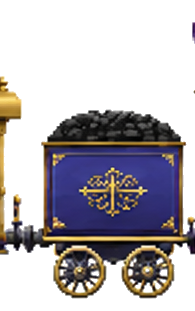
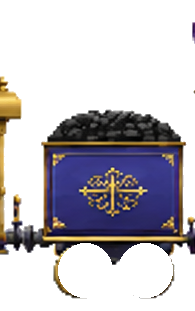
Add files via upload

Changed region(s): [[0.6154, 0.7814, 0.8923, 0.9839], [0.2769, 0.7814, 0.5846, 0.955]]

diff --git a/train/train.html b/train/train.html
@@ -174,6 +174,7 @@
 
     .unit img.body{
       position:absolute;
+      z-index:3;
       left:0;
       bottom:0;
       width:100%;
@@ -191,10 +192,10 @@
     .coal{width:calc(var(--train-h) * 195 / 311)}
     .loco{width:calc(var(--train-h) * 485 / 311)}
 
-    /* العجلات مرسومة CSS وليست صورًا، حتى تدور بشكل دائري صحيح ومكانها مضبوط فوق عجلات الصورة. */
+    /* train-5: العجلات الثابتة أزيلت من صور القطار، وهذه العجلات المتحركة تركب فوق مواقعها الأصلية بدقة. */
     .wheel{
       position:absolute;
-      z-index:8;
+      z-index:2;
       aspect-ratio:1/1;
       border-radius:50%;
       pointer-events:none;
@@ -210,21 +211,20 @@
 
     @keyframes wheelSpin{to{transform:rotate(360deg)}}
 
-    /* train-4: ضبط دقيق لمراكز العجلات فوق عجلات الصور الأصلية.
-       القياسات مبنية كنسب من عرض كل عربة حتى تبقى ثابتة مع تغيير الحجم. */
-    .car .wheel{width:12.4%;bottom:5.35%}
-    .car .w1{left:9.95%}.car .w2{left:27.65%}.car .w3{left:62.25%}.car .w4{left:79.20%}
+    /* train-5: المواضع محسوبة من الصورة الأصلية بعد إزالة العجلات الثابتة. */
+    .car .wheel{width:13.85%;bottom:4.50%}
+    .car .w1{left:9.74%}.car .w2{left:27.44%}.car .w3{left:60.77%}.car .w4{left:78.72%}
 
-    .passenger .wheel{width:12.0%;bottom:5.55%}
-    .passenger .w1{left:14.10%}.passenger .w2{left:29.30%}.passenger .w3{left:60.75%}.passenger .w4{left:76.50%}
+    .passenger .wheel{width:13.92%;bottom:4.50%}
+    .passenger .w1{left:11.08%}.passenger .w2{left:27.32%}.passenger .w3{left:59.54%}.passenger .w4{left:77.32%}
 
-    .coal .wheel{width:24.0%;bottom:5.20%}
-    .coal .w1{left:27.50%}.coal .w2{left:59.30%}
+    .coal .wheel{width:27.70%;bottom:4.50%}
+    .coal .w1{left:29.74%}.coal .w2{left:60.51%}
 
     .loco .wheel{animation-duration:.86s}
-    .loco .big{width:23.7%;left:8.15%;bottom:9.45%;animation-duration:1s}
-    .loco .mid{width:17.0%;left:42.90%;bottom:7.35%;animation-duration:.86s}
-    .loco .small{width:17.1%;left:66.90%;bottom:7.35%;animation-duration:.82s}
+    .loco .big{width:23.10%;left:7.84%;bottom:6.43%;animation-duration:1s}
+    .loco .mid{width:18.15%;left:40.82%;bottom:9.32%;animation-duration:.86s}
+    .loco .small{width:18.15%;left:64.12%;bottom:9.32%;animation-duration:.82s}
 
     @media (orientation:landscape){
       :root{--train-h:clamp(110px, 29dvh, 190px)}
